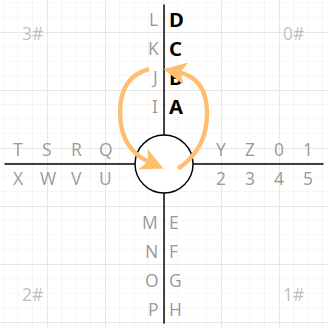
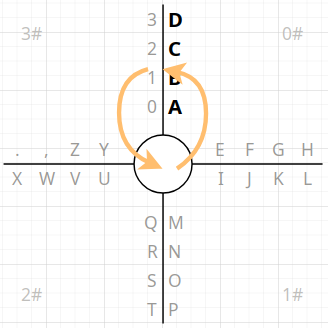
Docs: 更新《十字型输入的交互设计》

diff --git a/docs/design/cross-mode.md b/docs/design/cross-mode.md
@@ -44,20 +44,18 @@
 
 ![](./cross-mode/20-lantin-input-steps.png)
 
-> 注：该图仅作为演示说明，实际的按键布局会综合使用频率、使用习惯、操作便捷性等因素进行优化调整。
-
 也就是，我们将会在一个「十」字形面板上进行输入交互，因此，本设计将该输入模式称为**十字型输入**。
 
 ## X 型输入
 
-可以发现，十字型输入在本质上是从
+很明显，十字型输入是从
 [8VIM](https://github.com/8VIM/8VIM)/[8pen](../Increasing_the_Efficiency_of_Text_Input_in_the_8pen_Method.pdf)
-的 **X 型输入**模式上发展而来的。
+的 **X 型输入**模式发展而来的。
 
 > 注：筷字输入法 3.x 版本也内置了一版 X 型输入的变体，但其交互逻辑并没有脱离 X 型输入模式，
 > 因此，其将在 4.0 中被十字型输入替代。
 
-以下为 X 型输入的操作示意图，其中，左侧为输入字符 `Q`，右侧为输入字符 `O`：
+以下为 X 型输入的操作示意图，其中，左侧表示对字符 `Q` 的输入，右侧表示对字符 `O` 的输入：
 
 ![](./cross-mode/10-8pen-input.png)
 
@@ -65,20 +63,21 @@
 
 X 型输入的字符布局规则如下：
 
-- 通过两条 X 形的交叉线，将输入面板均分为四个区域，这些区域作为定位输入字符的第一个维度，
-  我们称之为布局的**第一维度**
-- 两条交叉线，形成四条轴，每条轴有两个侧面，在每个侧面都可放置最多四个字符，
-  我们称这些轴线为布局的**第二维度**
-- 经过两个维度的布局，在 X 型输入中，可以最多放置 `4（个区域）x 2（个轴侧面）x 4（个字符）= 32`
+- 通过两条 X 形的交叉线，将输入面板均分为四个区，输入字符将会被分配到这些`分区`（`Zone`）中
+- 分区与交叉线相交的两条边相互垂直，分配到该分区的字符将被进一步分配到两个侧边上
+- 交叉线从中心向外辐射，形成**辐射轴**，再沿轴的辐射方向，依次放置分配到侧边上的字符，
+  且最多可放置四个字符
+- 经过以上三个维度的布局，在 X 型输入中，可以最多放置 `4（个分区）x 2（条分区边）x 4（个字符）= 32`
   个字符
 
-而其输入逻辑如下（以上图中的字符 `O` 的输入为例）：
+而其输入逻辑如下（以上图中的字符 `O` 的输入为例，并将四个分区按位置命名为上、下、左、右分区）：
 
-- 从中心原点出发，滑入字符 `O` 所在区域
-- 沿逆时针方向，依次滑入左侧和下方两个区域
-- 再从下方区域滑回中心原点，完成对 `O` 的输入
-- 而手指滑过的区域数，对应的便是字符在轴上的序号（从 `1` 开始）位置
-- 只有滑回中心原点，才表示一个字符输入的结束
+- 从中心原点出发，滑入字符 `O` 所在的`上分区`。这表示激活对该分区字符的选择
+- 由于 `O` 在分区的左侧边上，因此，需沿逆时针方向，滑入`左分区`。这表示选择`上分区`左侧边的字符
+- 继续保持滑行方向不变，滑入`下分区`，并直接滑回中心原点。这表示选择沿轴辐射方向上的第二个字符，
+  也就是当前所要输入的字符 `O`
+- 其中，手指滑过的分区数量，对应的便是字符在辐射轴上的位置
+- 并且，只有滑回中心原点，才表示一个字符输入过程的结束
 
 下面是 8VIM 的输入演示视频，可以更直观地理解以上输入过程：
 
@@ -86,18 +85,20 @@ https://github.com/user-attachments/assets/3b5f2503-4852-4678-acd8-6f599eb523cd
 
 可以发现，X 型输入具备以下优点：
 
-- 通过两个维度（**空间位置** + **滑行方向**）布局和定位字符，在保证输入字符全部可见的前提下，
-  使得操作空间更大，而且输入也会更精准
+- 充分利用分区、分区侧边、轴辐射方向三个**空间维度**来**布局字符**，在保证输入字符全部可见的前提下，
+  使得操作空间更大
+- 通过滑行运动方向和经过的分区数量的方式**定位字符**，充分利用**运动维度**，
+  实现了对目标输入的精准定位
 - 通过画圈来定位输入字符，使得手指可以在固定范围内完成输入，而不会出现跨越整个屏幕宽度的手指移动问题
 - 多个字符可以连续输入，手指不用离开屏幕，对常用单词，比较容易形成固定的输入轨迹，
-  从而不假思索地快速完成输入
+  从而快速完成输入
 
 但该输入模式存在的最大问题是，无法形成具备**唯一性**的滑行轨迹形状。
-因为，通过画圈时经过的区域数量来定位相应位置的字符，其形成的滑行轨迹都只是不同角度的圆弧，
+因为，通过画圈时经过的分区数量来定位相应位置的字符，其形成的滑行轨迹都只是不同角度的圆弧，
 如果视线脱离屏幕，仅凭感觉是难以保证输入的准确性的。
 
 并且，不同位置的字符，其滑行的弧度有大有小，即便是可连续输入，但在输入另一个不同位置的字符时，
-也不得不短暂思考一下手指需要滑过几个区域。
+也不得不短暂思考一下手指需要滑过几个分区，从而影响整体输入的效率和连贯性。
 
 另外就是其字符布局是静态的，从而限制了其更进一步的发展，比如，对拼音输入的支持便不是很方便。
 
@@ -105,37 +106,40 @@ https://github.com/user-attachments/assets/3b5f2503-4852-4678-acd8-6f599eb523cd
 
 ![](./cross-mode/00-lantin-init.png)
 
-十字型输入依然是通过四条轴将输入面板均分为四个区域，只是四条轴是在水平和垂直方向进行交叉的，
+> 注：这里的字符布局规则为，从 `0#` 分区开始，沿顺时针方向，并按字母表顺序，
+> 依次向分区的左/右两侧各放置四个字符，直到字符全部放置完毕。
+
+十字型输入依然是通过四条轴将输入面板均分为四个分区，只是四条轴是在水平和垂直方向进行交叉的，
 构成一个「十」字，而不像 X 型输入是做了 45 度旋转，形成的是一个 `X`。
 
-为方便说明该模式的输入过程，这里将均分的四个区域沿顺时针方向依次标注为
-`0#`、`1#`、`2#` 和 `3#`，同样地，这四个区域为十字型输入布局的**第一维度**。
-而在轴向两侧也各放置四个字符，并且也称这些轴线为布局的**第二维度**。
+为方便说明该模式的输入过程，这里将均分的四个分区沿顺时针方向依次标注为
+`0#`、`1#`、`2#` 和 `3#`，同样地，
+可输入的字符被依次按分区、分区侧边、辐射轴三个维度进行放置。
 
-下面以输入字符 `B` 为例，说明十字型输入的字符**动态布局**机制，及其交互逻辑。
+下面以输入字符 `B` 为例，说明十字型输入的字符输入逻辑。
 
-**第一步**：从中心原点出发滑入字符 `B` 所在的 `0#` 区域，接着，沿逆时针方向滑入 `3#`
-区域，并滑回到中心原点：
+**第一步**：选中目标输入字符所在分区的侧边。
+即，从中心原点出发滑入字符 `B` 所在的 `0#` 分区，接着，沿逆时针方向滑入 `3#`
+分区，再滑回到中心原点：
 
 ![](./cross-mode/20-lantin-input-active-zone.png)
 
-这一步的操作结果是激活并展开**第二维度**上的字符，即上图中的 `A`、`B`、`C`、`D`。
+> 注：若是最终依然从 `0#` 分区滑回中心原点，则表示取消对该分区字符的选择，
+> 可重新选择其他输入字符所在的分区。
 
-> 注：若是最终依然从 `0#` 区域滑回中心原点，则表示取消对 `0#`
-> 区域的字符选择，需重新选择其他输入字符的区域。
-
-由于在第二维度中最多只有四个字符，故而，正好可以将其全部展开并分别放置在第一维度的四个区域中，
-实现对第二维度字符的动态布局：
+在选中分区侧边后，十字型输入将自动采用**动态布局**机制，
+将分区侧边上的（最多）四个字符重新布局到四个分区中。
+也就是，对侧边上排列的字符做**布局展开**：
 
 ![](./cross-mode/20-lantin-input-expand-zone.png)
 
-> 注：第二维度字符的展开规则（即，从哪个区域向哪个方向展开）还需后续研究确定。
+> 注：这里的布局展开规则为，从 `0#` 分区开始，沿顺时针方向依次向各个分区放置字符。
 
-**第二步**：继续从中心原点滑入字符 `B` 所在的 `1#` 区域，此时，在第二维度的字符展开后，
-每个字符均独占一个区域，而在区域内滑行又有逆时针和顺时针两个方向可以选择，
+**第二步**：选择目标输入字符。即，继续从中心原点滑入布局展开后字符 `B` 所在的 `1#` 分区。
+此时，由于每个字符均独占一个分区，而在分区内滑行又有逆时针和顺时针两个方向可以选择，
 这正好可以用于区分字符的大小写两种形式。因此，这里暂且规定，若从 `1#`
-区域逆时针方向滑入 `0#` 区域并滑回中心原点，则输入大写字符 `B`，
-而若沿顺时针方向从 `1#` 区域滑入 `2#` 区域再滑回中心原点，则输入小写字符 `b`：
+分区逆时针方向滑入 `0#` 分区并滑回中心原点，则输入大写字符 `B`，
+而若沿顺时针方向从 `1#` 分区滑入 `2#` 分区再滑回中心原点，则输入小写字符 `b`：
 
 - 逆时针输入字符的大写形式
 
@@ -145,38 +149,36 @@ https://github.com/user-attachments/assets/3b5f2503-4852-4678-acd8-6f599eb523cd
 
   ![](./cross-mode/20-lantin-input-lower-b.png)
 
-> 注：若是最终依然从 `1#` 区域滑回中心原点，则表示取消对字符 `B` 的选择，可重新选择其他字符。
+> 注：若是最终依然从 `1#` 分区滑回中心原点，则表示取消对字符 `B` 的选择，可重新选择其他字符。
 
 至此，通过两步滑行，便可唯一确定大写或小写形式的字符 `B`。
 
-在完成字符的输入后，输入面板将自动恢复到初始布局。这样便无需中断滑行，
-可继续从中心原点滑入目标输入字符所在的区域（比如 `1#`），并按照上述过程输入其他字符即可：
+在完成字符的输入后，输入面板将自动恢复到初始布局。因此，无需中断滑行，
+可继续从中心原点滑入目标输入字符所在的分区（比如 `1#`），并按照上述过程输入其他字符即可：
 
 ![](./cross-mode/20-lantin-input-another.png)
 
-若是对所有字符的输入轨迹进行分析，在不考虑滑行方向的情况下，可以得到以下形状：
+若是对所有字符的输入轨迹进行分析，在不考虑滑行方向的情况下，可以得到以下形状的轨迹图：
 
 - 垂直方向（逆时针输入大写字符）
 
-  ![](./cross-mode/30-lantin-movement-shape-vertical.png)
+  ![](./cross-mode/30-lantin-trace-shape-vertical.png)
 
 - 水平方向（顺时针输入小写字符）
 
-  ![](./cross-mode/30-lantin-movement-shape-horizontal.png)
+  ![](./cross-mode/30-lantin-trace-shape-horizontal.png)
 
 从中可以发现十字型输入的以下特点：
 
 - 每个字符需要且仅需要两次滑行便可完成输入
-- 每个字符的滑行轨迹都是数字 `8` 或其变形后的形状，而对 `8`
-  的变形是通过重新堆叠其两个 `o` 实现的
-- 通过以水平、垂直、重叠形式堆叠两个 `o`，以及沿轨迹滑行的运动方向，
-  可以唯一确定全部输入字符
+- 每个字符的滑行轨迹都是由两个 `O` 以水平、垂直或重叠的方式组成
+- 通过两个 `O` 的组合形式，以及轨迹滑行的运动方向，便可唯一确定全部输入字符
+- 每个字符的轨迹是相似的，滑行次数是相同的，故其相互之间没有优先级关系，都是平等的，
+  因此，不需要按照使用频率等因素来确定字符的布局，直接按字母顺序沿顺时针方向放置即可
 
-之所以采用「十」字形输入，而非「X」形，其主要原因就是，十字形更便于分析
-`8` 及其变形的轨迹形状，而若是要分析在「X」上形成的轨迹，则相对会更复杂一点。
-最重要的是，在水平或垂直方向上滑行，会比在倾斜方向上滑行，更加方便和准确。
-
-可以说，**十字型输入** + **字符动态布局**是目前最能够满足本设计最开始所提出的几点要求的方案。
+之所以采用「十」字形输入，而非「X」形，
+一个是原因，在十字形上绘制的滑行轨迹会被限定在垂直和水平方向上，更便于程序分析，
+而最重要的原因是，在水平或垂直方向上滑行，会比在倾斜方向上滑行，更加方便和准确。
 
 而对于盲打的输入支持，可以详见章节[《盲打输入模式》](#盲打输入模式)。
 
@@ -216,7 +218,7 @@ m |20| m, ma,mai,man,mao,mang, me,mei,men,meng, mi,mie,min,miu,mian,miao,ming, m
 
 - 需在大脑中记住初始布局，再根据动态布局的规则，在输入过程中，快速绘制出展开后的字符布局
 - 快速确定出「从初始布局到完成字符输入」所形成的滑行轨迹和运动方向
-- 协调手指做出响应，从键盘输入区域的任意位置开始，沿着大脑确定出的滑行轨迹和运动方向，迅速滑出字符的输入轨迹
+- 协调手指做出响应，从键盘输入分区的任意位置开始，沿着大脑确定出的滑行轨迹和运动方向，迅速滑出字符的输入轨迹
 - 回到第一步，按照相同步骤，继续下一个字符的输入，直到输入全部完成
 
 > 注：只需要记住动态布局的规则，并不需要记住每个字符的布局位置。
@@ -235,10 +237,40 @@ m |20| m, ma,mai,man,mao,mang, me,mei,men,meng, mi,mie,min,miu,mian,miao,ming, m
 > 注：「面板投屏」方案的灵感来源为
 > [虾滑输入法](https://github.com/crazydan-studio/kuaizi-ime/issues/1#issuecomment-2636091392)。
 
+**开个小差**：既然有「面板投屏」了，那么就可以内置一些滑屏类小游戏，比如，贪吃蛇、吃豆人等，
+作为放松娱乐之用 ;-)。
+
+虽然，十字型输入形成的字符输入轨迹是由两个 `O` 组成，并且具有方向性，
+但在滑行轨迹识别上，我们可以将两个 `O` 的绘制简化为方向向量，再对两个向量组成的结果进行分析即可。
+
+很容易发现，每个 `O` 仅有逆时针和顺时针两种滑行方式，因此，可以约定：
+
+- 沿逆时针方向滑行的 `O` 用箭头背离中心原点的向量表示
+- 沿顺时针方向滑行的 `O` 用箭头指向中心原点的向量表示
+
+这样，便可以得到如下图所示的轨迹与向量的映射关系（暂且用箭头表示向量）：
+
+![](./cross-mode/40-input-trace-to-vector.png)
+
+经过向量简化后，轨迹识别将转换为以下处理过程：
+
+- 确定两个 `O` 的交叉点，并以交叉点作为轨迹的原点
+- 找到 `O` 向外的顶点，即，在其周围绘制一个矩形，其与矩形的边刚好相交的点
+- 根据轨迹运动方向，确定其为顺时针还是逆时针方向，进而得到从 `O` 的顶点到原点方向上的向量
+- 将得到的真实的滑行向量与字符理想的滑行向量向比对，若二者相同，则表示将输入该字符
+
+所以，只需要能够识别出轨迹，便可直接打出对应的字符，而不必等待面板对动态布局的视图刷新，
+以至于面板还没开始刷新视图，输入便已经完成了。
+如下图所示，动态布局还未在视图上更新，字符 `f` 便已输入完成了：
+
+![](./cross-mode/50-lantin-blind-hit.png)
+
 ### 其他
 
-- 可在四个字符区域各放置一到两个功能按键
+- 可在四个字符分区各放置一到两个功能按键
 - 如何自然地切换到数字、算术等输入键盘？
+  - 在中心原点画圈，类似于拨动旋钮，根据画圈的数量来循环切换不同的输入
+  - 符号、表情等，仅放置常用的，更多的选择，需点击切换按键再做选择
 - 拼音候选字、表情、符号等输入字符过多，依然采用按键输入模式，不考虑滑行输入，
   但可以考虑在滑行输入的初始布局的空位中放置常用的表情和符号
 - 由于字符输入的路径长度相同，因此，在初始布局中无需考虑字符的高频性，
